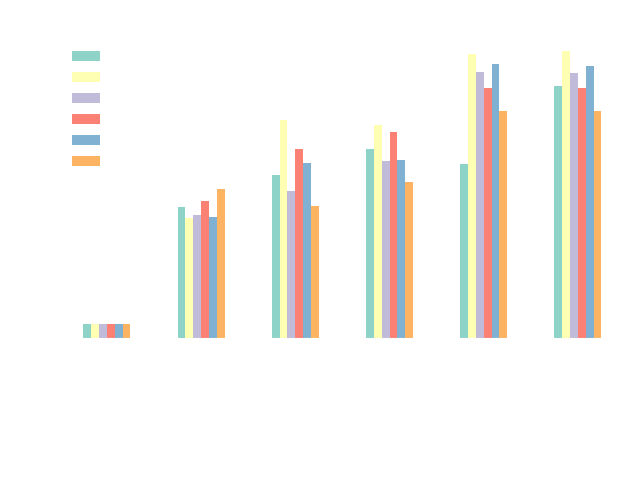
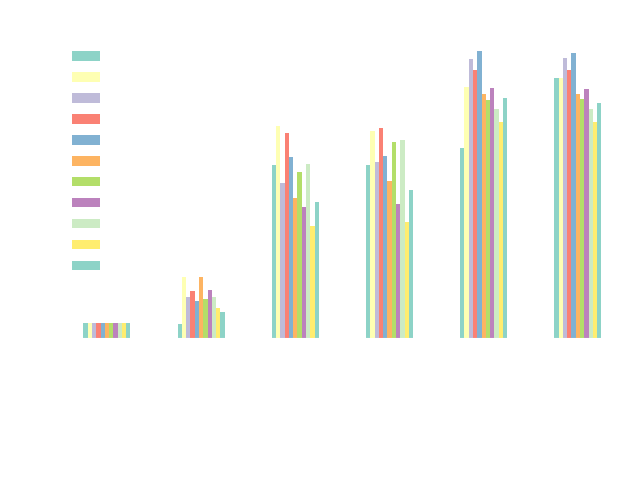
Update readme and benchmarks (#5)

diff --git a/README.md b/README.md
@@ -2,13 +2,31 @@
 
 This project intends to assess the interest of implementing healpy functions using JAX.
 
-*WARNING: BETA STAGE!!!*
-<div align="center">
-<img src="https://raw.githubusercontent.com/pchanial/jax-healpy/main/docs/benchmarks/chart-darkbackground-n10000000.png" alt="Benchmark"></img>
-</div>
+_WARNING: BETA STAGE!!!_
 
-# Installation
+## Installation
 
-    pip install -U "jax[cuda12_pip]" -f https://storage.googleapis.com/jax-releases/jax_cuda_releases.html
-    pip install jax-healpy
-    pip install "s2fft @ git+https://github.com/astro-informatics/s2fft@0.0.1"
+First install JAX following the [documentation](https://jax.readthedocs.io/en/latest/installation.html).
+
+Then install the package with:
+
+```bash
+pip install jax-healpy
+```
+
+To use the spherical harmonics functions,
+you will need [s2fft](https://astro-informatics.github.io/s2fft/),
+part of the recommended dependencies:
+
+```bash
+pip install jax-healpy[recommended]
+```
+
+## Benchmarks
+
+Execution time measured on the [Jean Zay supercomputer](http://www.idris.fr/jean-zay/cpu/jean-zay-cpu-hw.html).
+
+- CPU: Intel(R) Xeon(R) Gold 2648 @ 2.50GHz
+- GPU: NVIDIA Tesla V100-SXM2-16GB
+
+![Benchmark](/docs/benchmarks/chart-darkbackground-n10000000.png)
